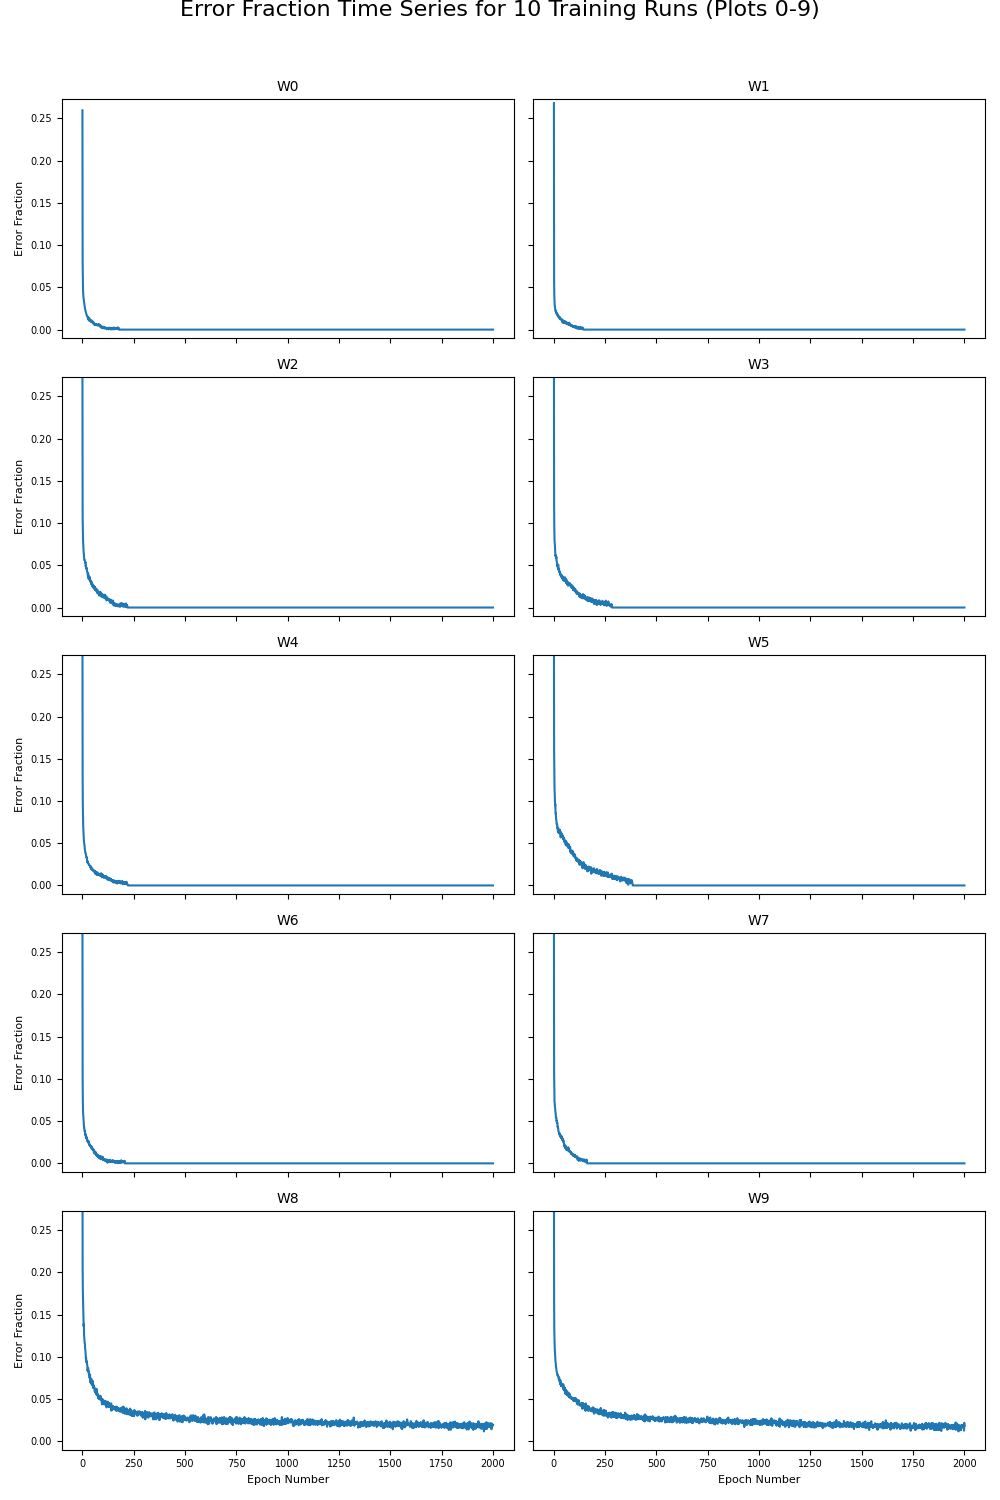
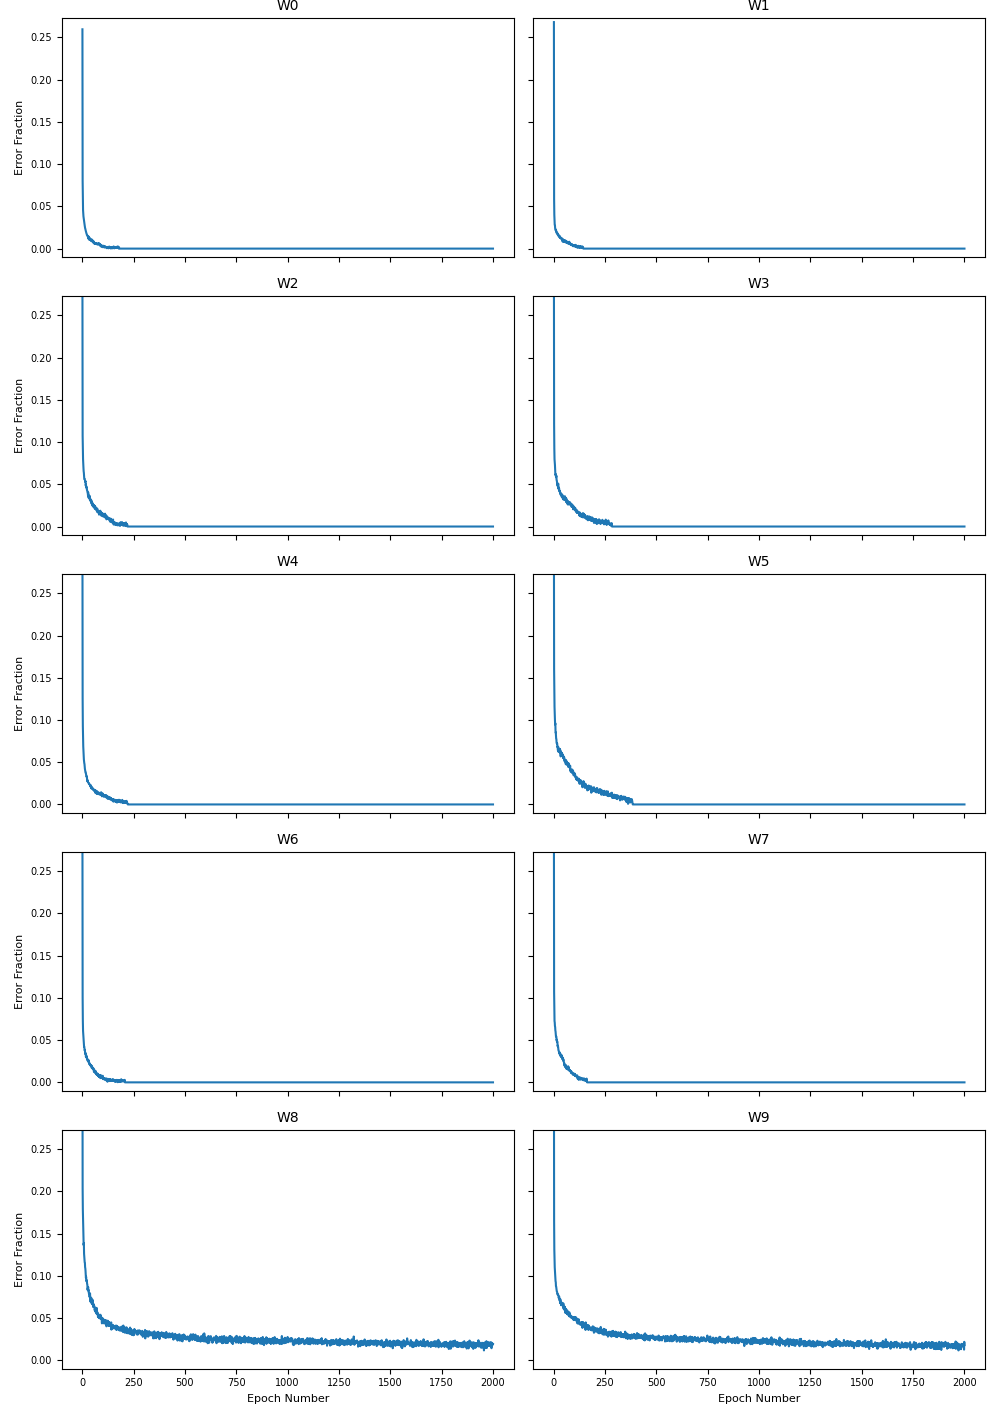
Changes to figures and a new readme file

diff --git a/HW3/README.md b/HW3/README.md
@@ -1,0 +1,9 @@
+# Perceptron Implementation
+
+There are two python notebooks in this set up implemented 2 parts of the assignment. `perceptron_part1.ipynb` is the implementation for problem 1, while `perceptron_part2.ipynb` is the implementation for problem 2. 
+
+In order to run them:
+1. Make sure all files (data, figs and the python fliles) are in the same directory as arranged by the zip file.
+2. Make sure to have `pandas, numpy` and `matplotlib` installed.
+3. Open the python notebooks using Visual studio code, google colab, kaggle or jupyter notebooks. With any of those options, make sure the data folder is present in the working directory.
+4. Run each cell one by one to see results!
